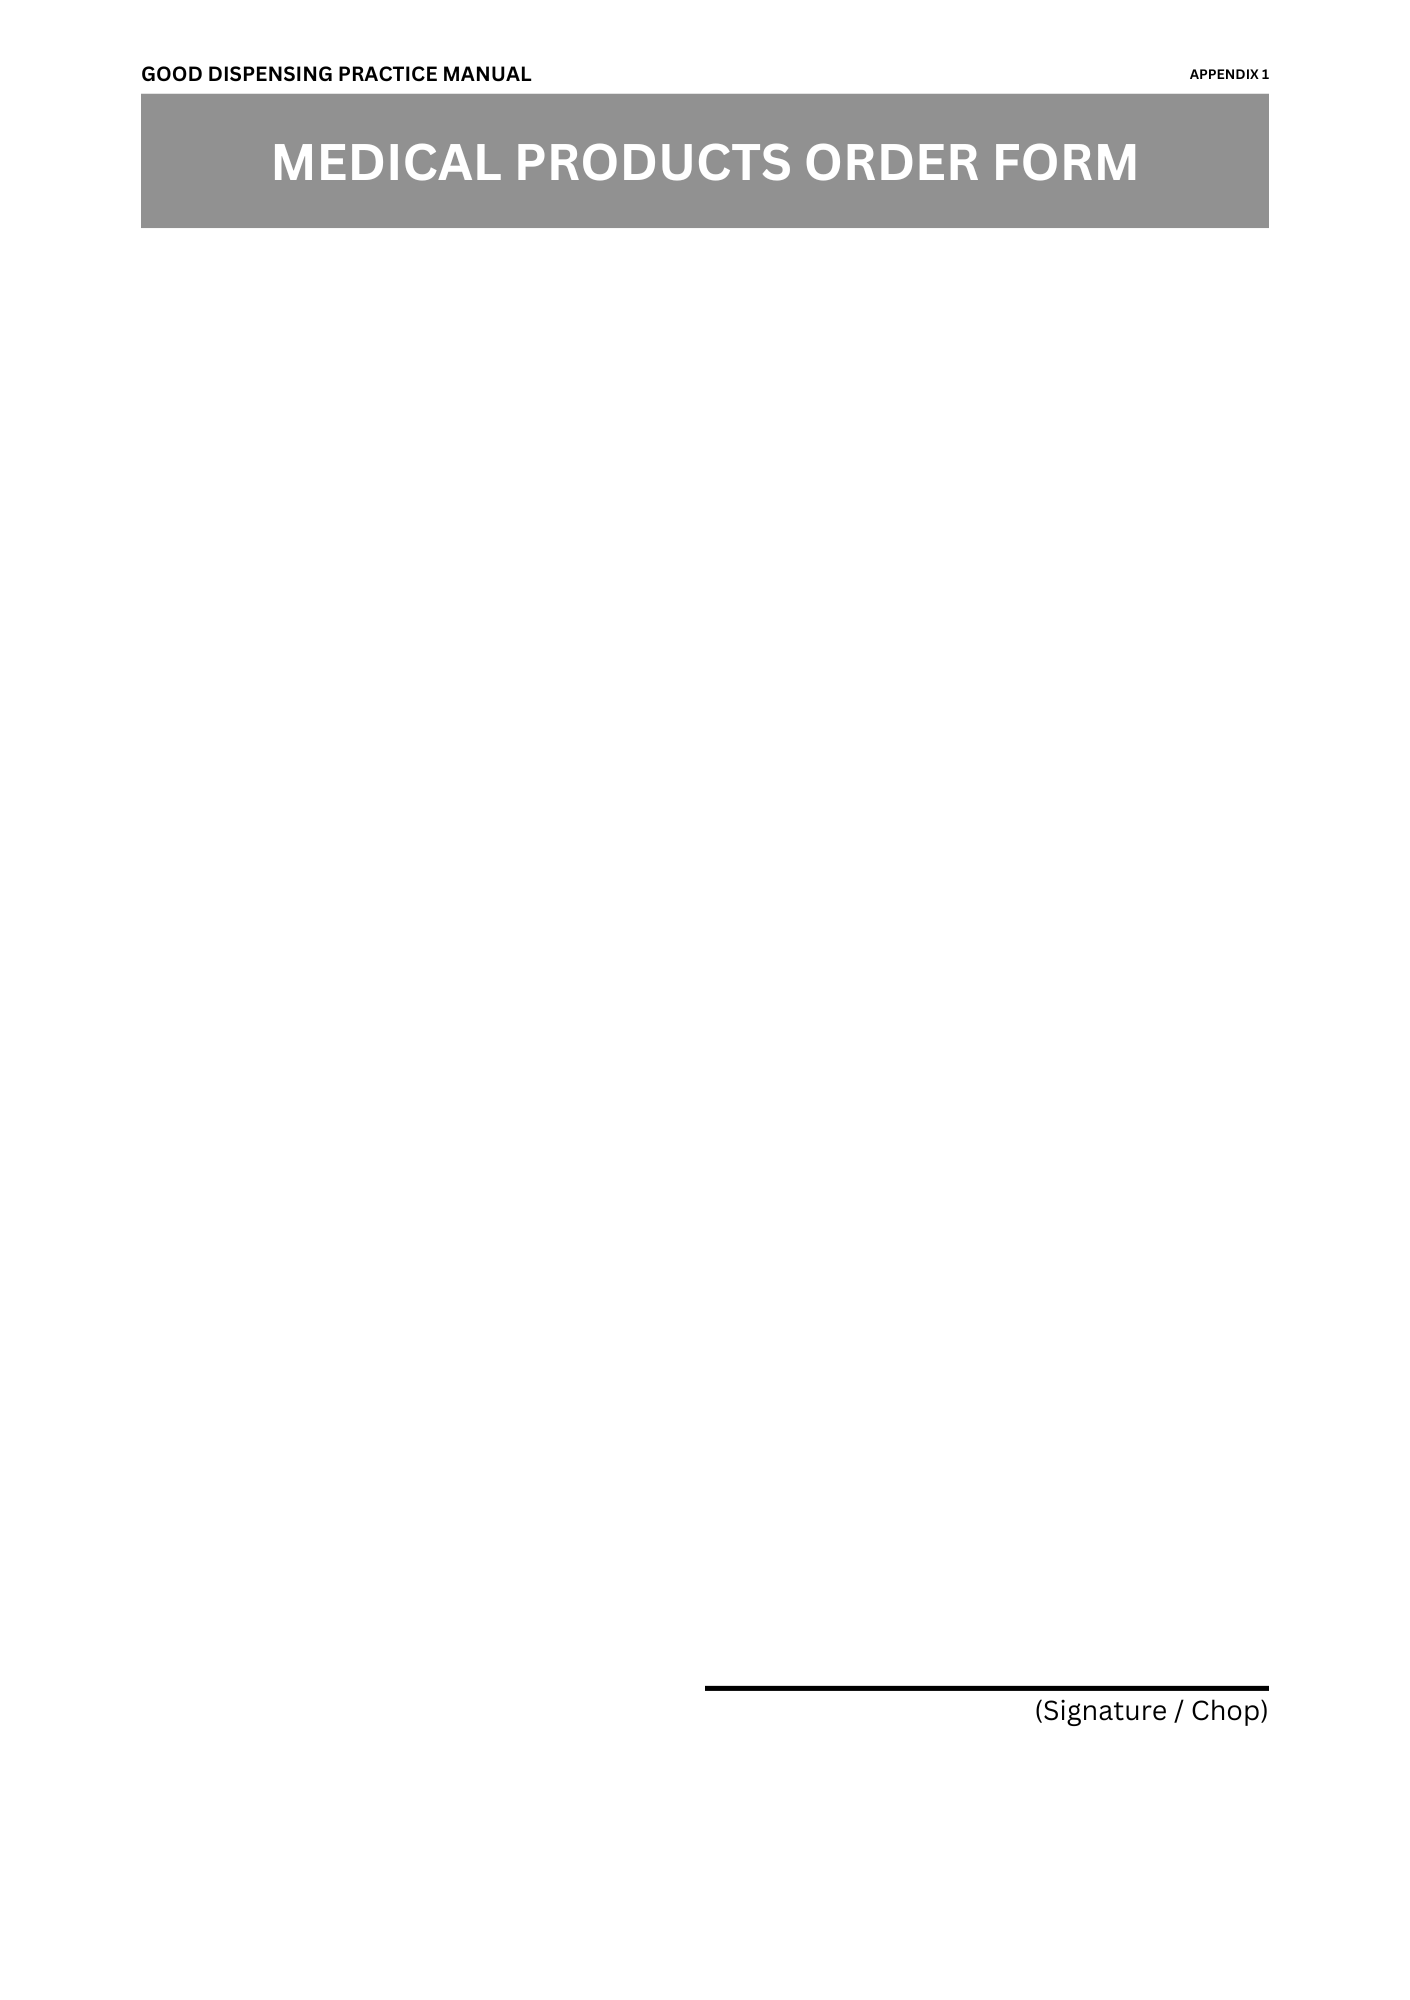
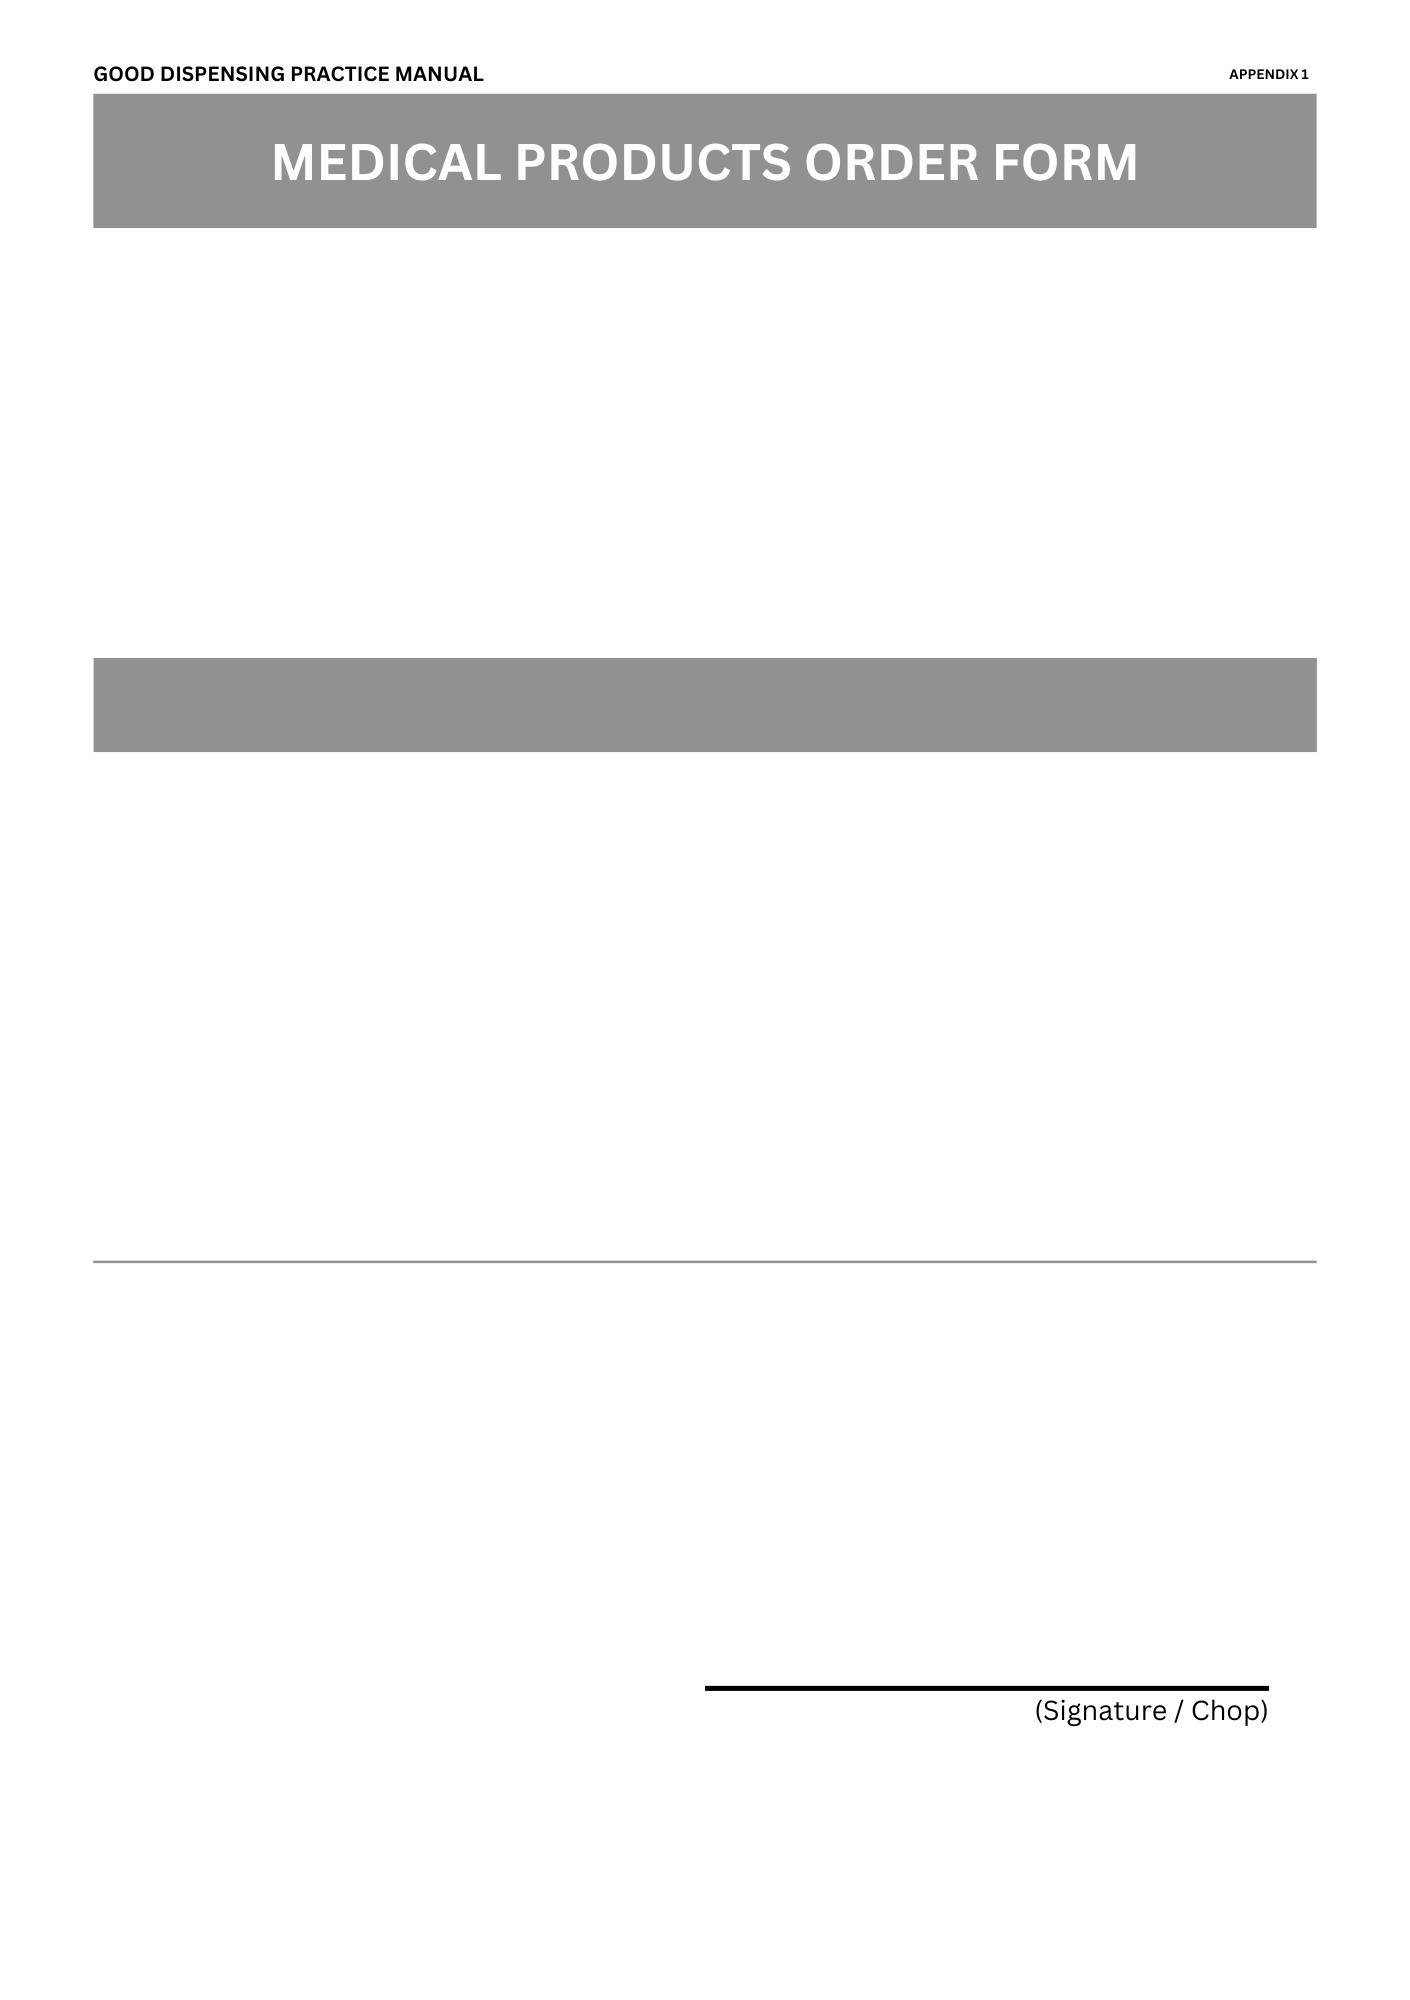
redesign order form

Changed region(s): [[0.0624, 0.31, 0.9362, 0.403], [0.0624, 0.031, 0.3745, 0.124], [0.8738, 0.031, 0.9362, 0.124]]

diff --git a/lafarge/invoice/pdf_utils.py b/lafarge/invoice/pdf_utils.py
@@ -172,6 +172,7 @@ def draw_order_form_page(pdf, order):
 
     Args:
         pdf: The ReportLab Canvas object.
+        order: The Order object.
     """
     width, height = A5
 
@@ -210,7 +211,8 @@ def draw_order_form_page(pdf, order):
     # Configure table styles
     table = Table(data, colWidths=[50, 250])
     table.setStyle(TableStyle([
-        ('TEXTCOLOR', (0, 0), (-1, 0), colors.black),
+        ('TEXTCOLOR', (0, 0), (-1, 0), colors.white),
+        ('TEXTCOLOR', (0, 1), (-1, 0), colors.black),
         ('ALIGN', (0, 0), (-1, -1), 'CENTER'),
         ('FONTNAME', (0, 0), (-1, 0), 'Helvetica-Bold'),
         ('FONTSIZE', (0, 0), (-1, -1), 10),
@@ -218,14 +220,17 @@ def draw_order_form_page(pdf, order):
         ('BACKGROUND', (0, 1), (-1, -1), colors.white),
     ]))
 
-    # Position the table
+    # Position the table to expand downward
     table.wrapOn(pdf, width, height)
-    table.drawOn(pdf, 80, height - 300)
+    table_width, table_height = table.wrap(0, 0)  # Get actual table height
+    table.drawOn(pdf, 110, height - 200 - table_height)  # Start lower for downward expansion
+
+    # Footer
     if prefix_check(order.customer.name.lower()):
-        pdf.drawString(30, height - 340, f"Please confirm by replying to {order.customer.name}")
+        pdf.drawString(30, height - 390, f"Please confirm by replying to {order.customer.name}")
     else:
-        pdf.drawString(30, height - 340, f"Please confirm by replying to Dr. {order.customer.name}")
-    pdf.drawString(30, height - 360, f"Tel:  {order.customer.telephone_number}")
+        pdf.drawString(30, height - 390, f"Please confirm by replying to Dr. {order.customer.name}")
+    pdf.drawString(30, height - 410, f"Tel:  {order.customer.telephone_number}")
 
 
 
